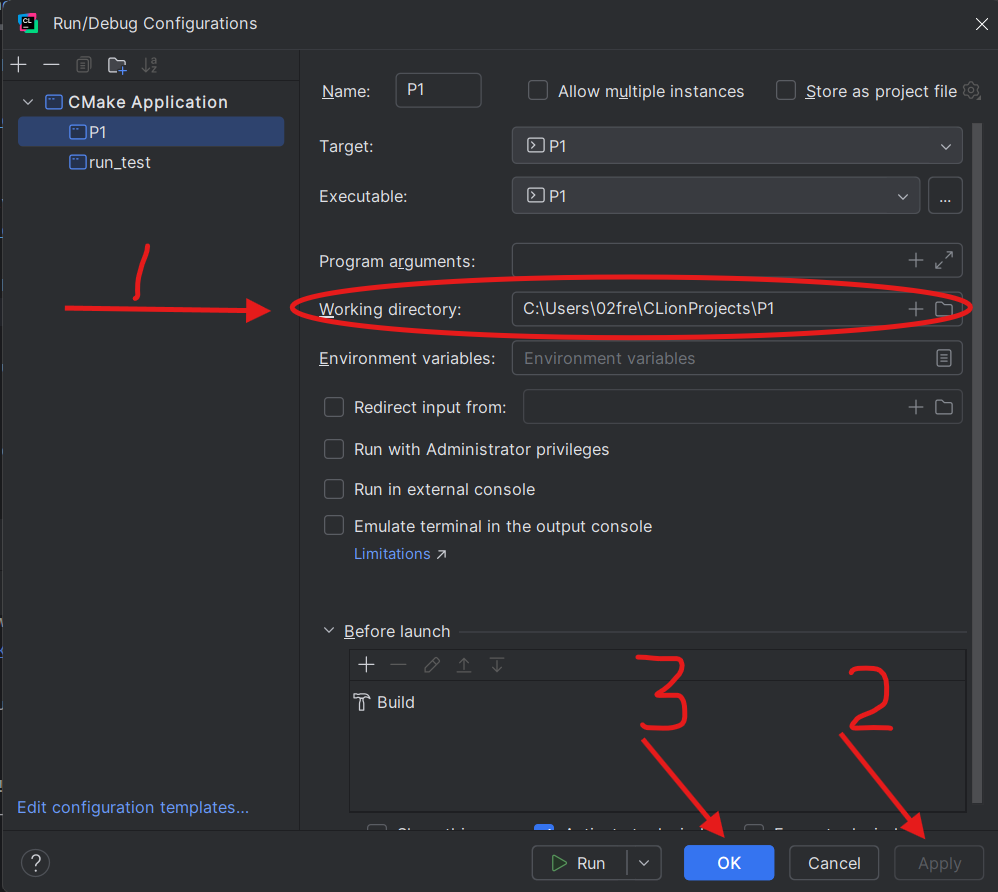
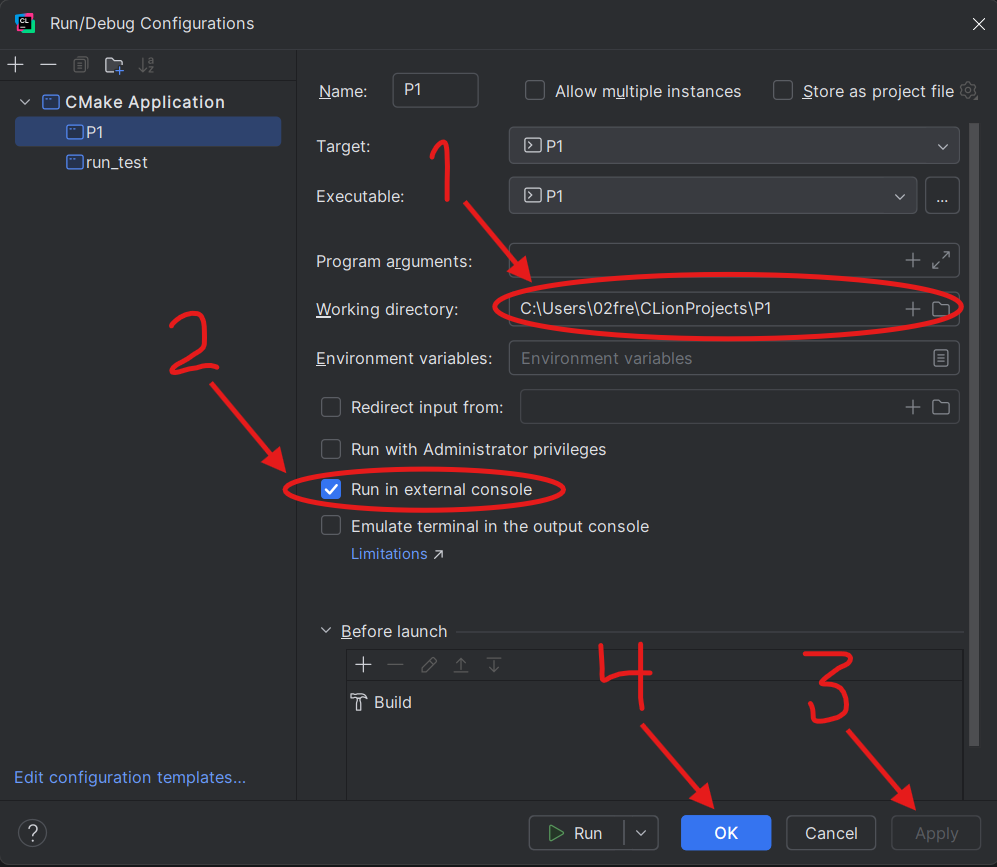
README.md - update

diff --git a/README.md b/README.md
@@ -21,7 +21,7 @@
 ![img_3.png](_images/img_3.png)
 
 
-5. Apply the copied path to "Working directory", Click "Apply" then "OK"
+5. Apply the copied path to "Working directory" and check mark at "Run in external console". Click "Apply" then "OK"
 
 ![img_4.png](_images/img_4.png)
 
